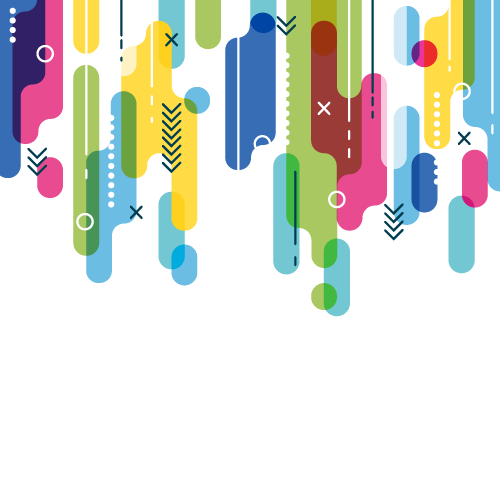
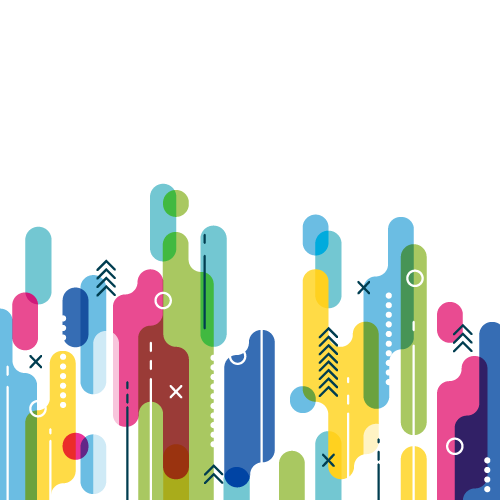
bg

diff --git a/index.html b/index.html
@@ -78,7 +78,7 @@
         </div>
     </nav>
     <div class="row">
-        <div class="col-md-2">
+        <div class="col-md-2" style="background:url(src/img/home/colorful-bg-01.png)">
             <nav class="navbar sidebar animated fadeInLeft js-is-sticky">
                 <ul class="nav flex-column">
                     <img style="width:100%" src="src/img/site/logo_smh.png">
